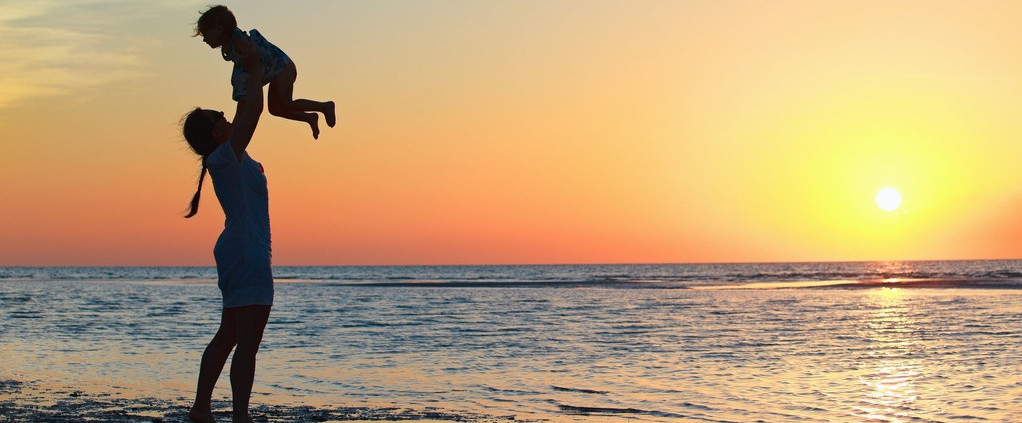
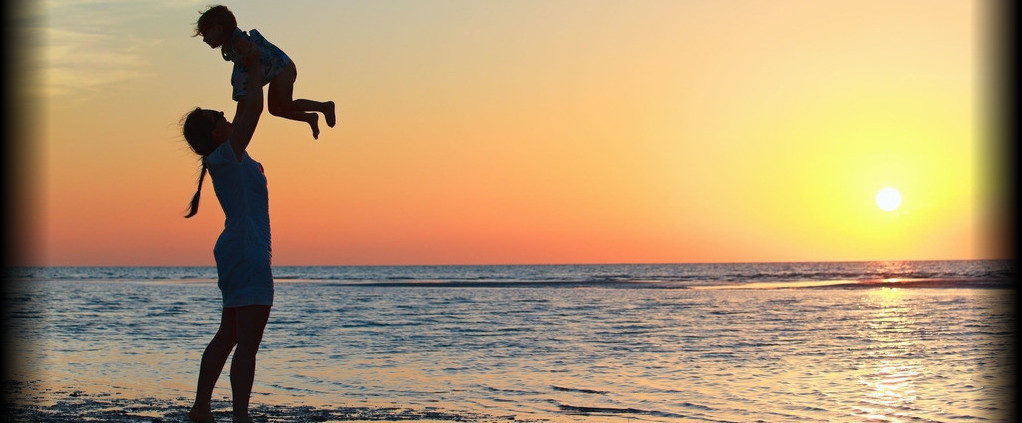
adjust post background

Changed region(s): [[0.9403, 0.0, 1.0, 1.0], [0.0, 0.0, 0.0607, 1.0]]

diff --git a/css/main.sass b/css/main.sass
@@ -239,7 +239,9 @@ body
     height: 350px
     overflow: hidden
     .post-image-image
-      background-size: cover
+      background-size: inherit
+      background-position: top
+      background-repeat: no-repeat
       position: absolute
       top: 0
       left: 0
